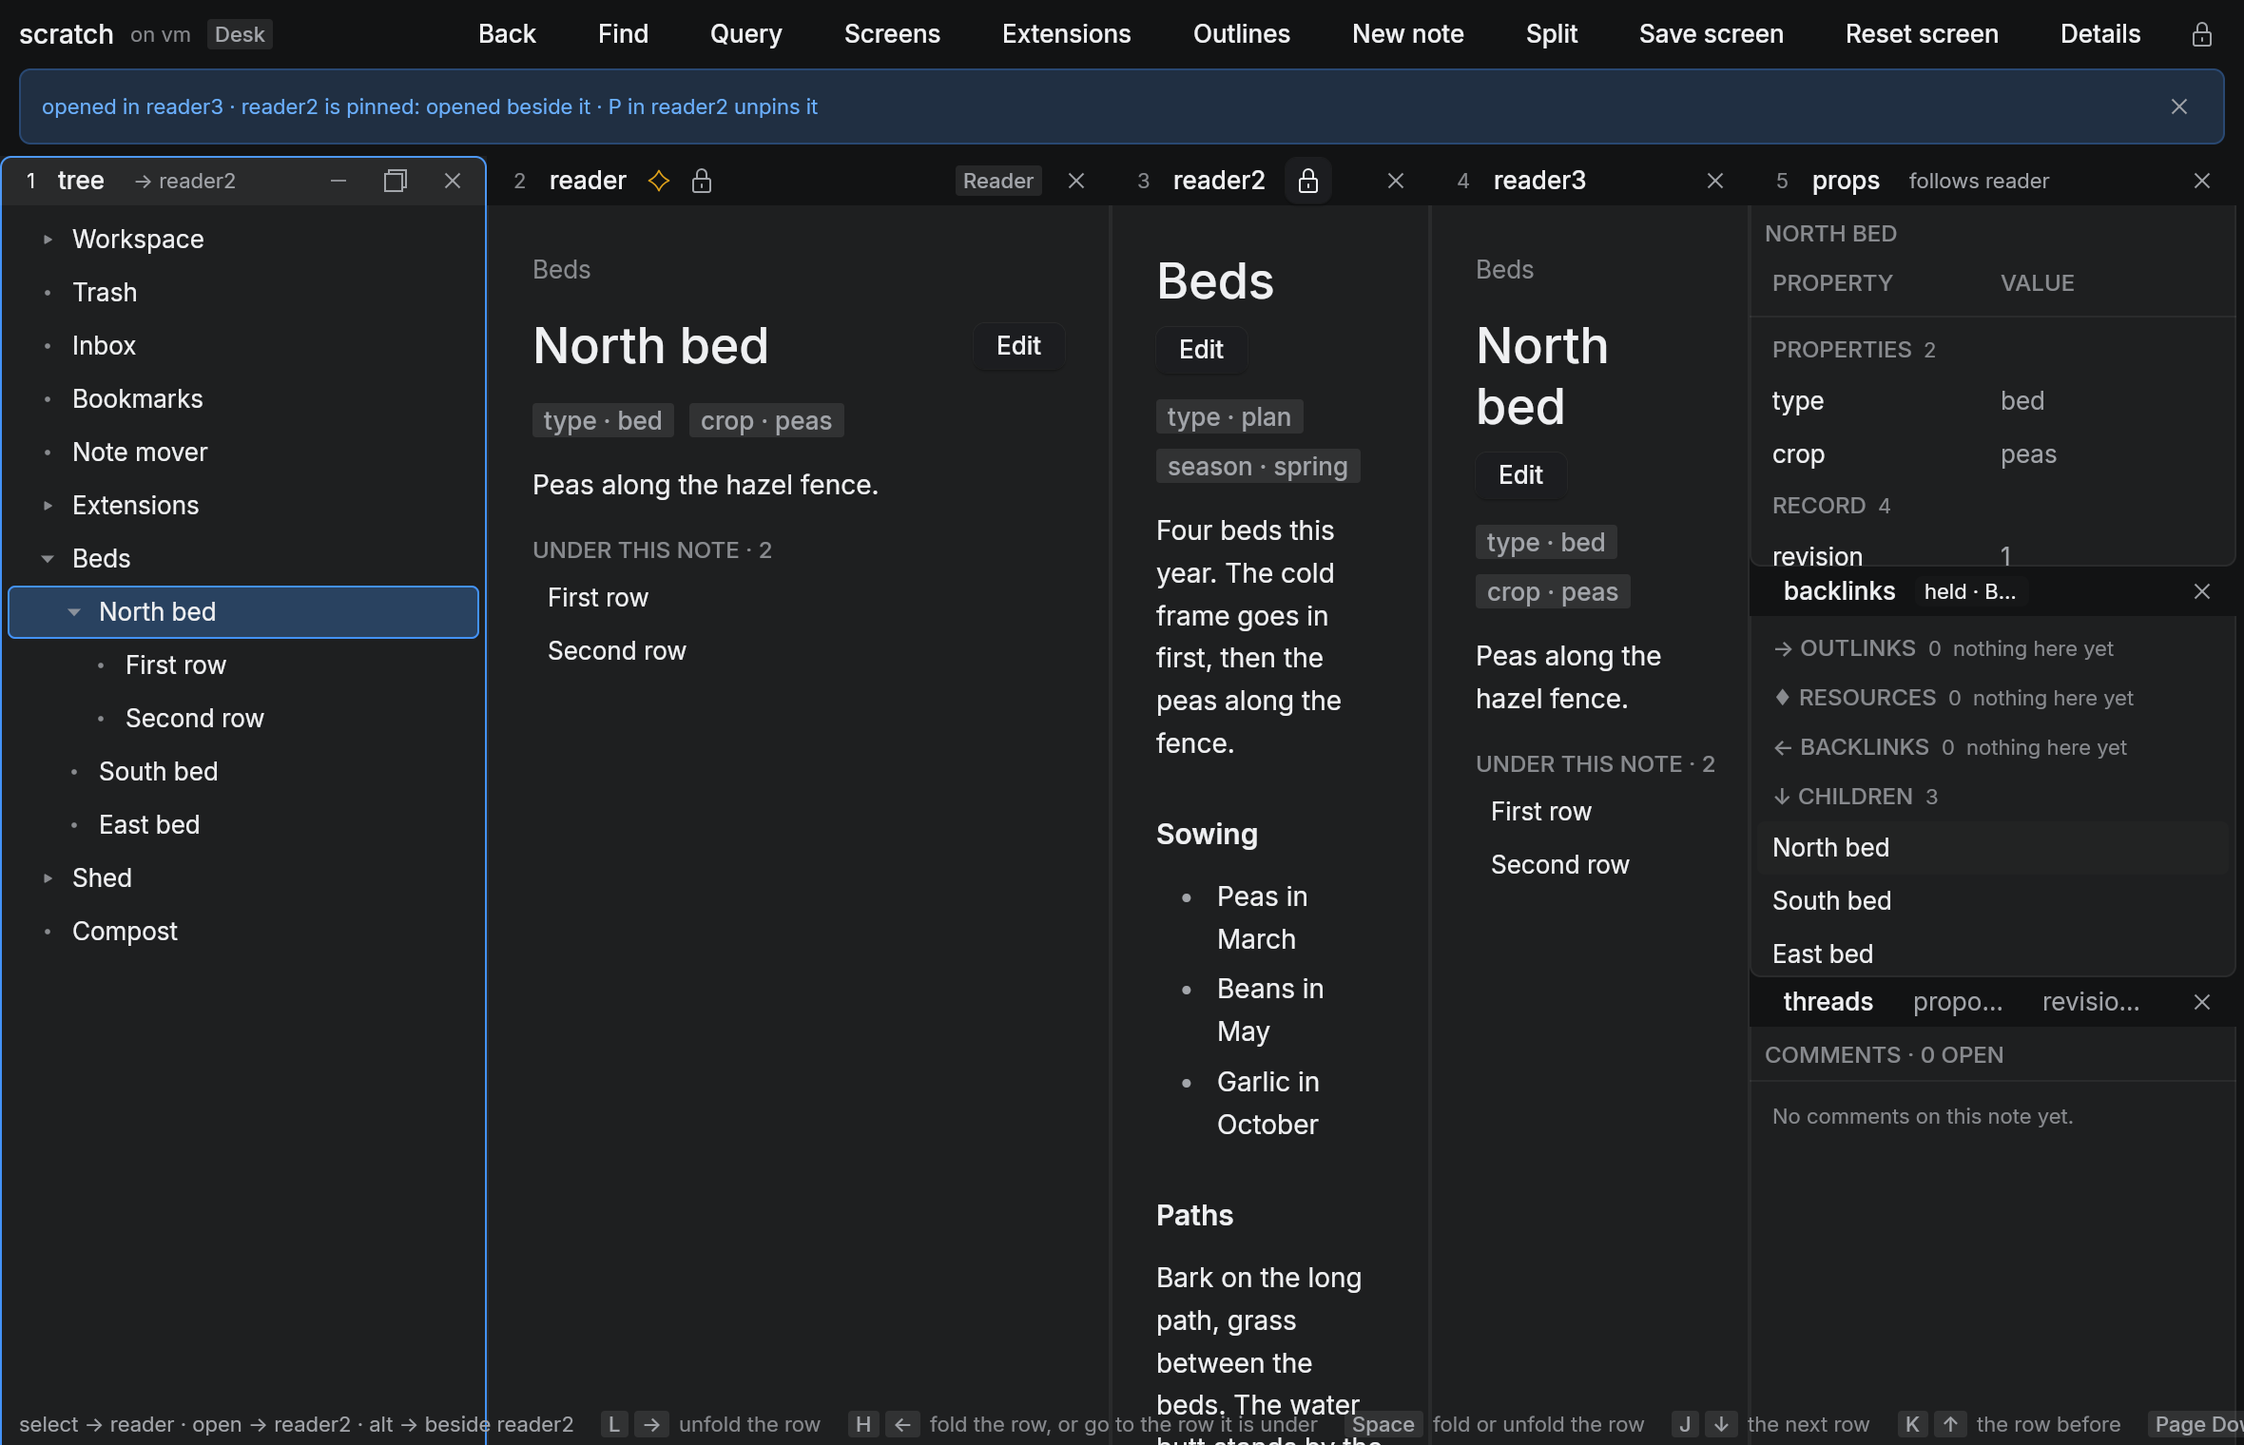
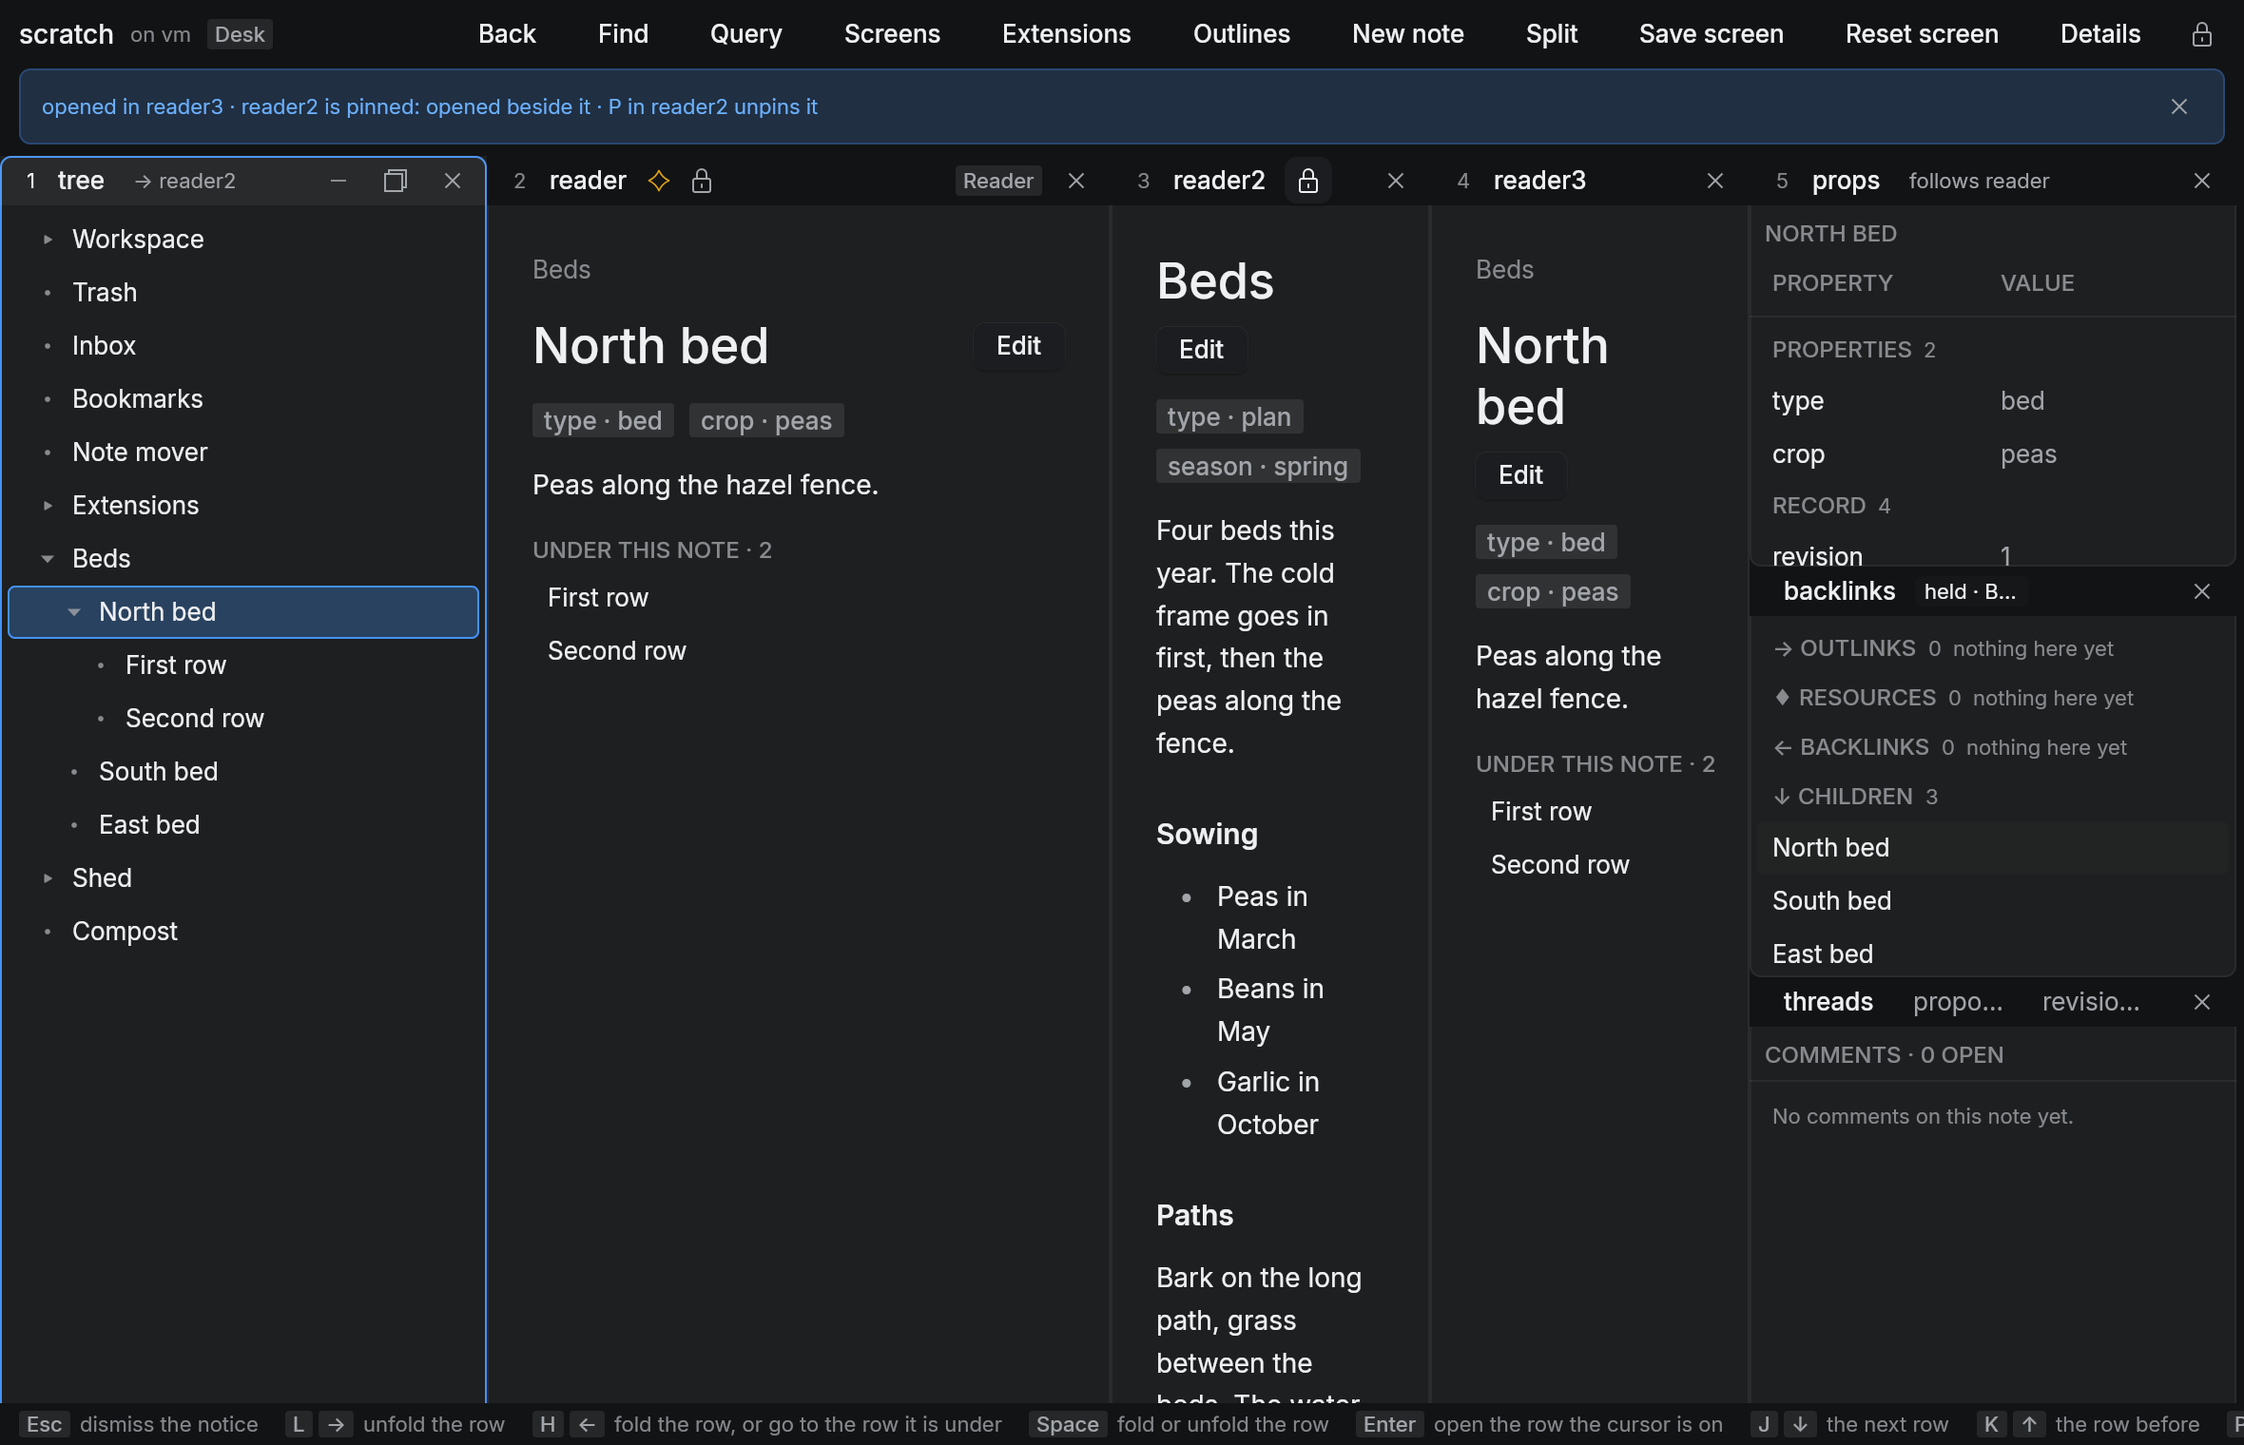
native K2: a list held by hand is written as held in a saved screen, and the pages say what the review found
A held list was written by leaving `subject` off its tile, which reads as held only for a kind whose row says
nothing. The comments, proposals, revisions and properties say `subject: follows` on their kind's row, so one of
them held by hand and saved followed its reader again when the screen was next opened. It is written
`subject: held` now, the door's own word for it; the test that held the old form asks for the word.

The landing words' test reads what is on screen (the tree's own title, whole), and that the keys lead the row
under the tiles. The two K2 pictures are drawn again on the merged branch; DESIGN, PROBES and the README say where
the landing words are now.

Claude-Session: https://claude.ai/code/session_01YahWSsU53UQFjh3cbq4VFn

Changed region(s): [[0.0, 0.9586, 1.0, 1.0]]

diff --git a/packages/native/src/tests/opens.rs b/packages/native/src/tests/opens.rs
@@ -30,6 +30,12 @@ fn press_with(rt: &mut Runtime<App>, key: &str, mods: Mods) {
     rt.frame(0.0);
 }
 
+/// A tile of a saved layout, by its name.
+fn leaf<'a>(node: &'a serde_json::Value, name: &str) -> Option<&'a serde_json::Value> {
+    if node["t"] == "leaf" { return (node["name"] == name).then_some(node) }
+    ["kids", "tabs"].iter().flat_map(|key| node[*key].as_array().into_iter().flatten()).chain(node.get("kid")).find_map(|kid| leaf(kid, name))
+}
+
 /// The sentence, by the mouse: a press on a row selects it, a second opens it, and Option or the middle button opens
 /// it fresh, each landing where the layout says.
 #[test]
@@ -94,9 +100,16 @@ fn the_cursor_s_steps_show_where_the_select_wire_says_and_return_and_alt_return_
     let on = cursor(&rt, "tree").unwrap();
     assert_eq!((focus(&rt).as_str(), shows(&rt, "reader")), ("tree", Some(on.clone())));
     assert_eq!(rt.state.ui("reader").history, ["plot"], "a walk keeps one way back: where it began");
-    // The hint row says where each lands, in the layout's words, for the tile with the keys.
-    let lands = rt.elements().into_iter().find(|e| e.key.as_deref() == Some("lands")).and_then(|e| e.text).unwrap_or_default();
-    assert_eq!(plain(&lands), "select \u{2192} reader \u{b7} open \u{2192} reader \u{b7} alt \u{2192} beside tree");
+    // Where each lands is said in the layout's words. The tree's own title says where its opens land, on screen
+    // whole; the row under the tiles says all three after the keys, where a window has room past them (the keys
+    // lead that row, and what is cut is its end).
+    let said = |rt: &Runtime<App>, key: &str| rt.elements().into_iter().find(|e| e.key.as_deref() == Some(key)).and_then(|e| e.text).map(|text| plain(&text)).unwrap_or_default();
+    assert!(said(&rt, "tile/tree/wire/open").ends_with("\u{2192} reader"), "the tree's title: {:?}", said(&rt, "tile/tree/wire/open"));
+    let (title, chip) = (rect_of(&rt, "tile/tree/bar").unwrap(), rect_of(&rt, "tile/tree/wire/open").unwrap());
+    assert!(chip[0] >= title[0] && chip[0] + chip[2] <= title[0] + title[2] + 0.5, "it is whole inside the title: {chip:?} in {title:?}");
+    assert_eq!(said(&rt, "lands"), "select \u{2192} reader \u{b7} open \u{2192} reader \u{b7} alt \u{2192} beside tree");
+    let last = rt.state.hinted().len() - 1;
+    assert!(rect_of(&rt, "lands").unwrap()[0] >= rect_of(&rt, &format!("hints/{last}")).unwrap()[0], "the keys come first in the row under the tiles");
     // Return opens the row where the tree's opens land: with no wire, the first reader not pinned, which takes the keys.
     key(&mut rt, Key::Enter);
     assert_eq!((focus(&rt).as_str(), shows(&rt, "reader")), ("reader", Some(on.clone())));
@@ -290,12 +303,8 @@ fn pins_holds_and_wires_are_kept_with_the_arrangement_and_written_with_a_saved_s
     let saved = g.asked.borrow().iter().rev().find(|ask| ask["action"] == "screens.save").cloned().expect("the screen was written");
     let text = saved["spec"]["layout"].to_string();
     assert!(text.contains("\"mode\":\"pinned\"") && text.contains("\"verb\":\"open\""), "{text}");
-    fn leaf<'a>(node: &'a serde_json::Value, name: &str) -> Option<&'a serde_json::Value> {
-        if node["t"] == "leaf" { return (node["name"] == name).then_some(node) }
-        ["kids", "tabs"].iter().flat_map(|key| node[*key].as_array().into_iter().flatten()).chain(node.get("kid")).find_map(|kid| leaf(kid, name))
-    }
     let links = leaf(&saved["spec"]["layout"]["root"], "backlinks").expect("the links tile is in the saved layout");
-    assert_eq!((links.get("subject"), links["source"].as_str()), (None, Some("tile:reader")), "held is a list with no `subject: follows`");
+    assert_eq!((links["subject"].as_str(), links["source"].as_str()), (Some("held"), Some("tile:reader")), "held is said in the word screens are written in");
     // The next launch, from the arrangement's file: the pin, the hold and its subject, the wire.
     drop(g);
     let again = garden_kept(ok(), &kept);
@@ -305,4 +314,24 @@ fn pins_holds_and_wires_are_kept_with_the_arrangement_and_written_with_a_saved_s
     assert_eq!(again.app.wire_words(&again.app.layout.named("tree").unwrap(), "open"), "reader2", "the tree's opens still go to the reader it was wired to");
     let _ = std::fs::remove_file(&kept);
     let _ = std::fs::remove_dir(&dir);
+}
+
+/// A list whose kind follows by its own word (the comments: their kind's row says `subject: follows`) and that the
+/// person holds is written as held in a saved screen, in the word screens are written in (the door's `held`): laid
+/// out again from what was written, it is still held. Left unsaid it was the kind's word again, and it followed.
+#[test]
+fn a_list_held_by_hand_is_written_as_held_in_a_saved_screen_whatever_its_kind_says() {
+    let mut g = garden(ok());
+    let threads = g.app.layout.named("threads").expect("the desk has the comments");
+    assert!(g.app.follows(&threads) && g.app.spec(&threads).is_some_and(|spec| !spec.fields.contains_key("subject")), "the comments follow by their kind's own word, not their tile's");
+    assert!(act(&mut g.app, "tile.hold on=true tile=threads").ok);
+    assert!(act(&mut g.app, "screen.save name=\"Garden desk\"").ok);
+    let saved = g.asked.borrow().iter().rev().find(|ask| ask["action"] == "screens.save").cloned().expect("the screen was written");
+    let written = leaf(&saved["spec"]["layout"]["root"], "threads").expect("the comments are in the saved layout").clone();
+    assert_eq!(written["subject"], "held", "held is said, over what the kind says: {written}");
+    // The screen as it was written, opened: the comments are held there, and say so.
+    let again = super::sweep2::laid(json!({ "layout": saved["spec"]["layout"] }));
+    let threads = again.app.layout.named("threads").expect("the comments are laid out again");
+    assert!(!again.app.follows(&threads), "the saved screen opens with the comments held");
+    assert_eq!(again.app.held_on(&threads).map(|(held, ..)| held), Some(true));
 }

diff --git a/packages/native/src/actions/layout.rs b/packages/native/src/actions/layout.rs
@@ -249,7 +249,7 @@ impl App {
 
     /// The arrangement as a screen saves it: the layout's own form, with what somebody set on a tile here written
     /// on its leaf in the words a screen is written in (the door's): a reader's `mode: pinned`, a list's `subject`
-    /// (`follows`, or held) and the reader it was aimed at (`source: tile:<name>`). So a screen saved here opens
+    /// (`follows` or `held`) and the reader it was aimed at (`source: tile:<name>`). So a screen saved here opens
     /// the same way in every door, and here again.
     pub(super) fn saved_layout(&self) -> Value {
         fn stamp(app: &App, node: &mut Value) {
@@ -257,7 +257,9 @@ impl App {
                 let Some(tile) = node["name"].as_str().and_then(|name| app.layout.named(name)) else { return };
                 let ui = app.ui(&tile);
                 if let Some(pinned) = ui.pinned { node["mode"] = json!(if pinned { "pinned" } else { "held" }) }
-                if let Some(follows) = ui.follows { if follows { node["subject"] = json!("follows") } else if let Some(fields) = node.as_object_mut() { fields.remove("subject"); } }
+                // (Held is said, in the word screens are written in: left unsaid it is the kind's own word again, and
+                // a kind that follows, as the comments do, would follow when the screen is next opened.)
+                if let Some(follows) = ui.follows { node["subject"] = json!(if follows { "follows" } else { "held" }) }
                 if let Some(home) = ui.home.as_ref().filter(|home| app.layout.spec(home).is_some()) { node["source"] = json!(format!("tile:{}", app.layout.name(home))) }
                 return;
             }

diff --git a/packages/native/docs/DESIGN.md b/packages/native/docs/DESIGN.md
@@ -145,9 +145,9 @@ an object, a typed argument) is the block's own ```json fence. `screens.save` is
 | Whether an open is fresh | the act that says so (`open fresh=`, `link.follow fresh=`, `list.open where=new`, `tree.pick fresh=`, `fresh line=`, `bar.pick alt=`), held as `State.fresh` while it runs and read by the one open (`nav::go_from`). Where a fresh open lands is `layout::place`'s (the alt wire, the container's `altOpens`, beside), and a screen's own action for it (`Spec::fresh`, `Ctx.fresh_action`) is run by `nav::land` |
 | Who gets the keys after an open | `layout::place` (`give_new_keys`, the door's rule by `place-contract.json`): a list keeps them when its open is routed, a list that hands its keys on (`Facts.hands_keys`, its kind's row: the tree) gives them to the reader for an open nothing routes, and the person's open handed in (`Request.hands_keys`: the bar's pick, a line) gives them to where it lands |
 | Where a tile's wires point, and who changes them | the layout: `Layout.wires`, changed by `Op::Link` alone, issued by `tile.link` alone (`reader.follow` and `tile.preview` are that step and an open's own `link`). `wire.pick` is the person's mode for picking the tile on screen (`State.linking`, the `linking` layer): it runs `tile.link` with what was picked |
-| What a title says of a tile's wires | `App::wire_words`: placement's own answer for an open from the tile, asked with `inspect` and nothing opened (`nav::planned`). The title's controls, the row under the tiles, the words while a wire is set and `peek`'s `opens` read it; the shell words none |
+| What a title says of a tile's wires | `App::wire_words`: placement's own answer for an open from the tile, asked with `inspect` and nothing opened (`nav::planned`). The title's controls, the row under the tiles (after the keys, which lead that row: on a window with no room past them the title alone says it), the words while a wire is set and `peek`'s `opens` read it; the shell words none |
 | Whether a reader is pinned, held, or made on purpose | the tile's own state (`TileUi.pinned` over its spec's `mode`, `deliberate`) and the layout's wires (`App::list_fed`), said to the layout's rules in `App::facts` and nowhere else. `reader.pin` is the one writer of a pin |
-| What a list about a note is held on, and whose it is | `App::subject_of` and `App::home_of`, over what somebody chose here (`TileUi.follows`, `subject`, `home`: `tile.hold` and `tile.aim` are the writers) and then its spec (`subject`, `source`). A list aimed is held |
+| What a list about a note is held on, and whose it is | `App::subject_of` and `App::home_of`, over what somebody chose here (`TileUi.follows`, `subject`, `home`: `tile.hold` and `tile.aim` are the writers) and then its spec (`subject`, `source`). A list aimed is held. A screen saved says what was chosen in the words screens are written in (`App::saved_layout`: `subject: held` or `follows`, over what the kind's own row says) |
 | What a landing says | `nav::land`: the tile that took it is marked (`App::arrive`, drawn on its title until seen), and a landing that is not where it was aimed is said with the layout's reason and its way back through the one sayer (`actions::says`) |
 | Where a screen's `lands` points | `Layout::lands`: a tile's name, else a container's key (the screen validator's reading). Placement reads it, and `App::landing` (the reader an act about the open note means, and a list's home) |
 | Which tile an act is about when it names none | `App::target(About)` in `actions/app.rs`: the tile aimed at when it is of the sort the action wants, else the one with the keys when it is, else (a reader) where the screen lands, else the first of the sort. The dispatcher asks it once an act, checks the actor against that tile and the action runs in it (`App::about`); a tile named that is not of the sort is refused. Where a press happened is no name: a button's act, a row's pick and a script's call come from their tile (`App::act_from`, in the dispatcher) and are about it only when the action acts in a tile of that sort, else about the tile this rule finds |

diff --git a/packages/native/docs/PROBES.md b/packages/native/docs/PROBES.md
@@ -961,6 +961,24 @@ and `crates/rune/src/runtime/on_key_tests.rs` (how a press sees the modifiers he
 - A socket path under a long scratch folder is refused (`SUN_LEN`); a symlink to the socket from a short folder
   is how the scenes were drawn.
 
+**Found by the wave's review, each red first.**
+
+- **A held list came back following from a saved screen.** `screen.save` wrote a held list by leaving `subject`
+  off its tile. That reads as held only for a kind whose row says nothing: the comments, the proposals, the
+  revisions and the properties say `subject: follows` on their kind's row, so one of them held by hand and saved
+  followed its reader again when the screen was next opened. A held list is now written `subject: held`, the
+  door's own word for it (`a_list_held_by_hand_is_written_as_held_in_a_saved_screen_whatever_its_kind_says`).
+- **Where the keys land led the hint row, and cut the key that opens a row out of it.** K1's last fix (the row
+  leads with what Escape does and the key that opens, since it is cut at its end) merged while this wave was
+  built; with this wave's words before the keys, a window 1180 points wide showed a tree's Escape and its three
+  fold keys and nothing after. One row holds one or the other at that width. The keys lead; where they land is
+  said after them (on a window with room past the keys), and on every tile's own title. Left: a tree's keys fill
+  any window, so in practice the title is where it is read. A second line, or the landing said on the hint of the
+  key that lands, would say both.
+- **A step of a board's cursor now shows its card in the reader** the lanes' select wire names, where K1's test
+  held that the reader kept its note: the door's select, by this wave's design. The test asks that nothing was
+  opened (no `open`, no `list.pick`) and that the reader shows the card.
+
 ## The contract tables
 
 **What the door's layout answers is written down as data, for native's Rust `apply` and `place` to be tested against**
